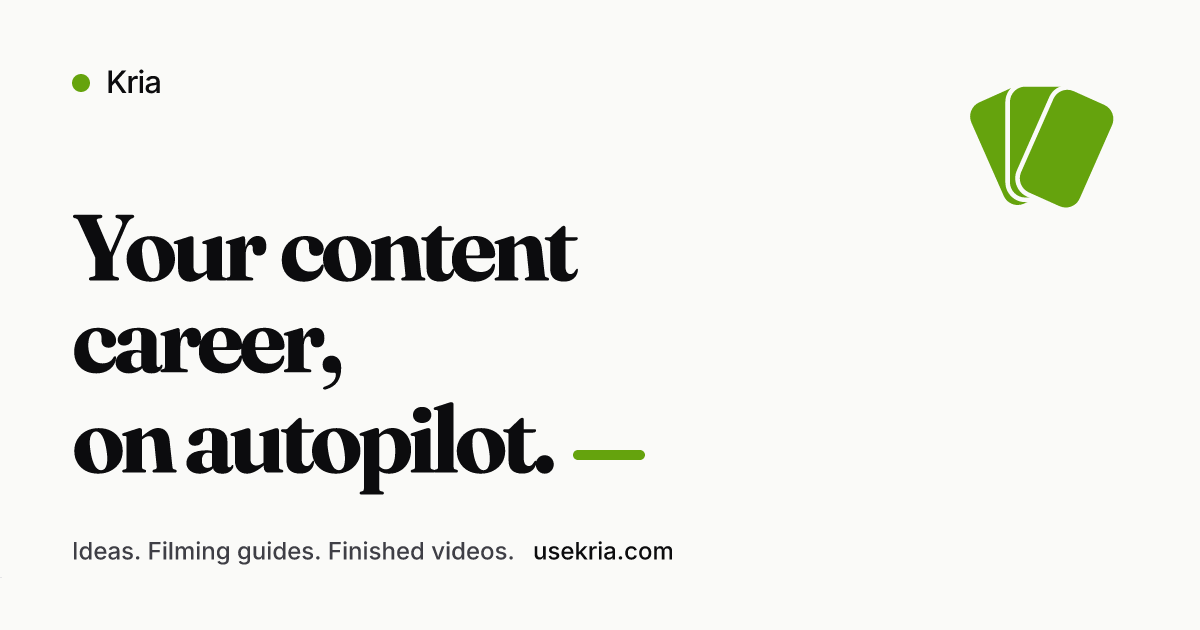
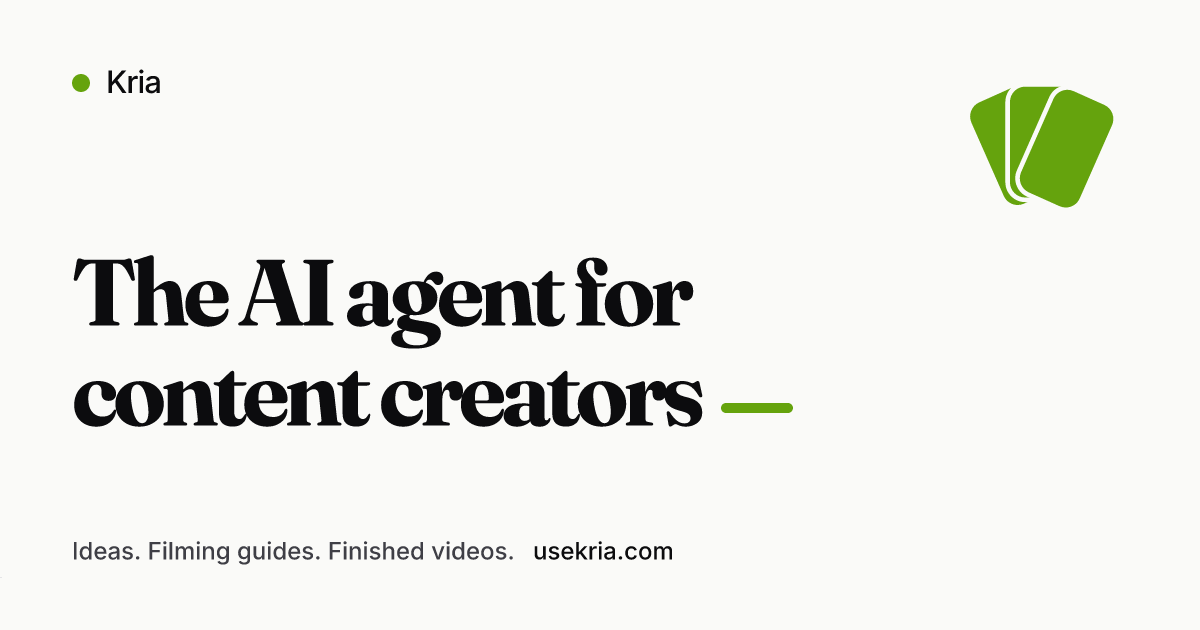
fix(web): update social card headline
Use the approved “The AI agent for content creators” copy in the production image and matching accessibility text.

Changed region(s): [[0.0617, 0.3317, 0.6783, 0.7841]]

diff --git a/src/apps/web/src/app/opengraph-image/v1/route.tsx b/src/apps/web/src/app/opengraph-image/v1/route.tsx
@@ -5,7 +5,10 @@ import { ImageResponse } from "next/og";
 
 import { KriaMarkSvg } from "@/components/KriaMark";
 import { APEX_WEB_ORIGIN, BRAND_NAME } from "@/lib/brand";
-import { SOCIAL_IMAGE_SIZE } from "@/lib/site-metadata";
+import {
+  SOCIAL_IMAGE_HEADLINE_LINES,
+  SOCIAL_IMAGE_SIZE,
+} from "@/lib/site-metadata";
 
 const frauncesBold = readFile(
   path.join(
@@ -100,7 +103,7 @@ export async function GET() {
                 letterSpacing: "-0.055em",
               }}
             >
-              Your content career,
+              {SOCIAL_IMAGE_HEADLINE_LINES[0]}
             </div>
             <div
               style={{
@@ -119,7 +122,7 @@ export async function GET() {
                   letterSpacing: "-0.055em",
                 }}
               >
-                on autopilot.
+                {SOCIAL_IMAGE_HEADLINE_LINES[1]}
               </span>
               <span
                 style={{

diff --git a/src/apps/web/src/__tests__/lib/opengraph-image-route.test.ts b/src/apps/web/src/__tests__/lib/opengraph-image-route.test.ts
@@ -4,6 +4,8 @@ import { ImageResponse } from "next/og";
 
 import { GET } from "@/app/opengraph-image/v1/route";
 import {
+  SOCIAL_IMAGE_ALT,
+  SOCIAL_IMAGE_HEADLINE_LINES,
   SOCIAL_IMAGE_PATH,
   SOCIAL_IMAGE_SIZE,
   SOCIAL_IMAGE_VERSION,
@@ -19,6 +21,16 @@ jest.mock("next/og", () => ({
 }));
 
 describe("/opengraph-image/v1", () => {
+  it("uses the approved social-card headline", () => {
+    expect(SOCIAL_IMAGE_HEADLINE_LINES).toEqual([
+      "The AI agent for",
+      "content creators",
+    ]);
+    expect(SOCIAL_IMAGE_ALT).toBe(
+      "Kria — the AI agent for content creators",
+    );
+  });
+
   it("uses a content-versioned URL for immutable social caches", () => {
     expect(SOCIAL_IMAGE_VERSION).toBe("v1");
     expect(SOCIAL_IMAGE_PATH).toBe("/opengraph-image/v1");

diff --git a/src/apps/web/src/lib/site-metadata.ts b/src/apps/web/src/lib/site-metadata.ts
@@ -9,8 +9,11 @@ export const SOCIAL_IMAGE_SIZE = {
   width: 1200,
   height: 630,
 } as const;
-export const SOCIAL_IMAGE_ALT =
-  "Kria — your AI content agent for planning and editing short-form video";
+export const SOCIAL_IMAGE_HEADLINE_LINES = [
+  "The AI agent for",
+  "content creators",
+] as const;
+export const SOCIAL_IMAGE_ALT = "Kria — the AI agent for content creators";
 
 const PRIVATE_ROBOTS: Metadata["robots"] = {
   index: false,
